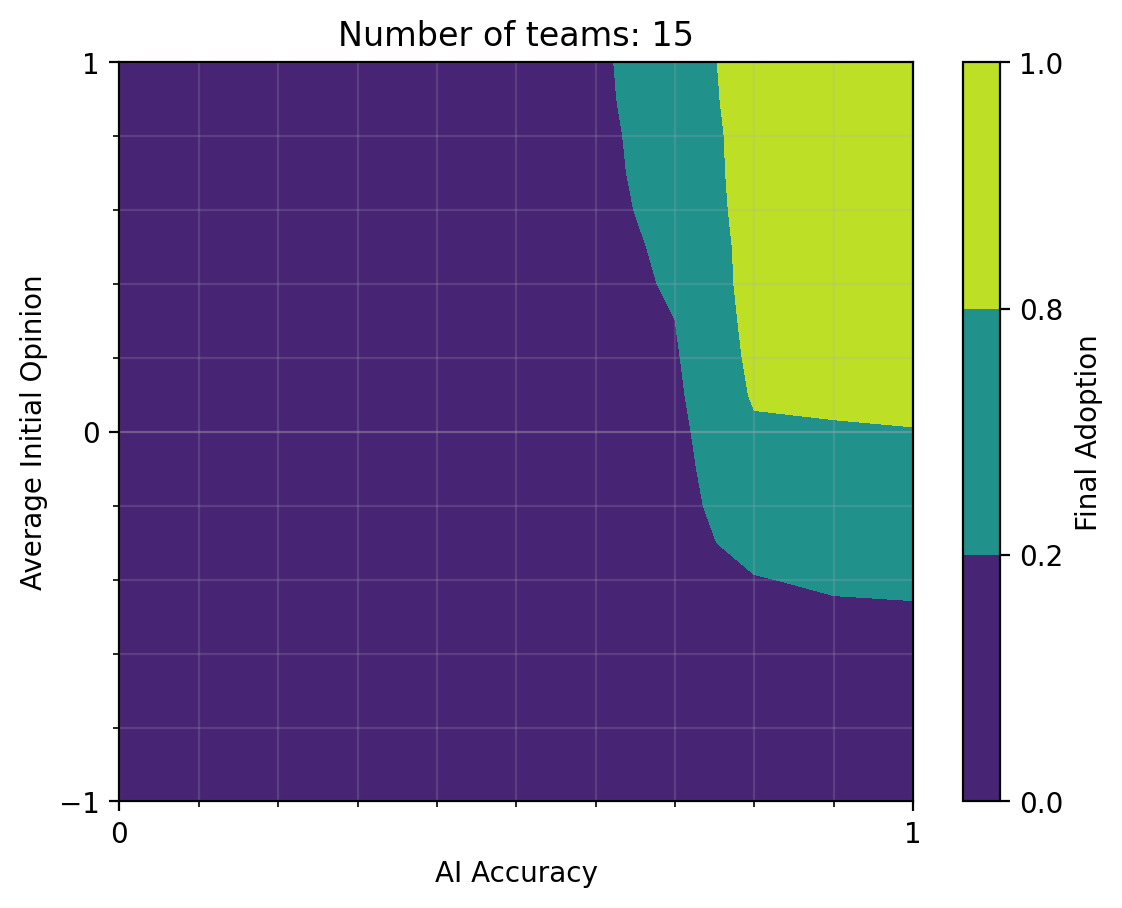
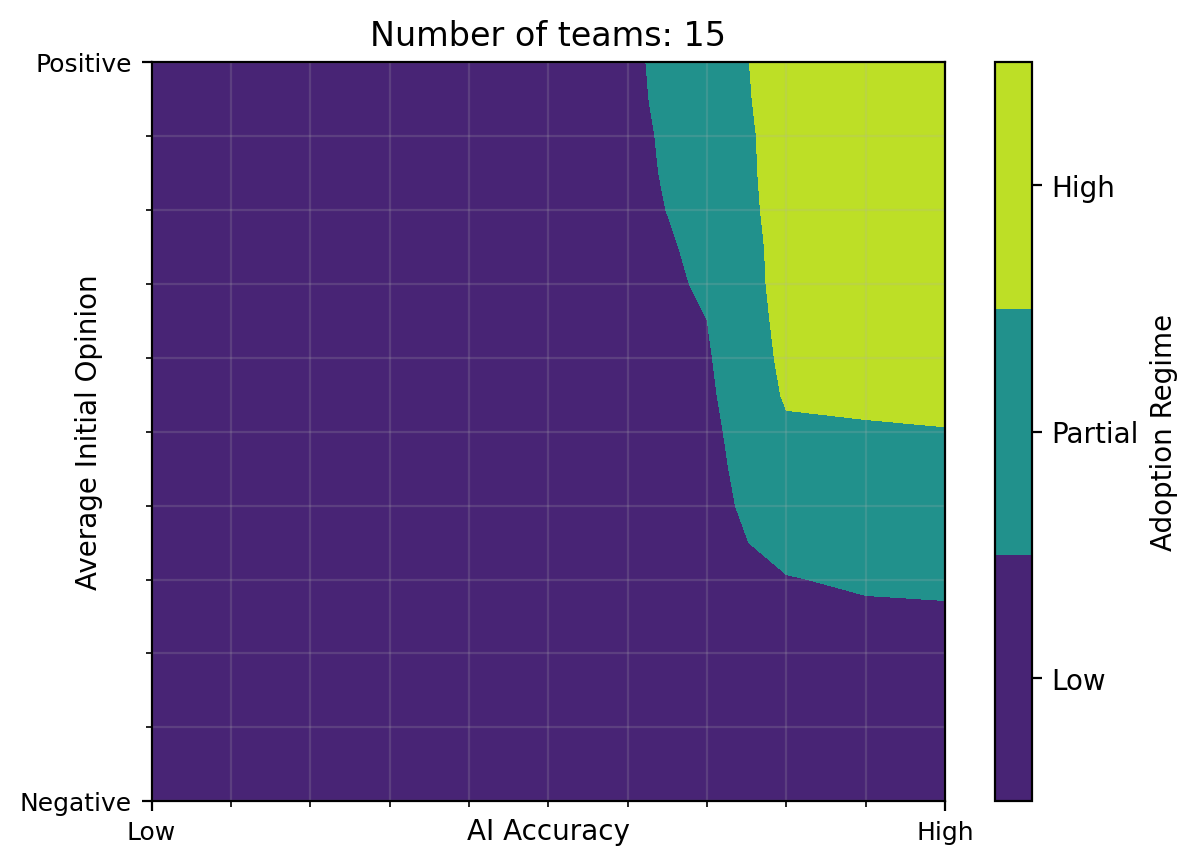
Semantic enhancement.

diff --git a/tradeoff.py b/tradeoff.py
@@ -166,16 +166,22 @@ def plot_tradeoff_iso_adoption(
         color_levels = np.array([0.0, 0.2, 0.8, 1.0])
         cf = plt.contourf(X, Y, Z, levels=color_levels, vmin=0.0, vmax=1.0)
 
-        plt.xlabel("AI Accuracy")
-        plt.ylabel("Average Initial Opinion")
+        plt.xlabel("AI Accuracy", labelpad=-10)
+        plt.ylabel("Average Initial Opinion", labelpad=-30)
         #plt.title(f"Tradeoff: AI Accuracy vs Average Initial Opinion (teams_num={tn})")
         plt.title(f"Number of teams: {tn}")
         
         ax = plt.gca()
 
-        # ---- major ticks (labels only) ----
+        # ---- major ticks (semantic labels) ----
         ax.set_xticks([0.0, 1.0])
-        ax.set_yticks([-1.0, 0.0, 1.0])
+        ax.set_xticklabels(["Low", "High"])
+
+        ax.set_yticks([-1.0, 1.0])
+        ax.set_yticklabels(["Negative", "Positive"])
+
+        ax.tick_params(axis='x', labelsize=9)
+        ax.tick_params(axis='y', labelsize=9)
 
         # ---- minor tick spacing (grid resolution control) ----
         ax.xaxis.set_minor_locator(MultipleLocator(0.1))   # every 0.1 on x
@@ -193,7 +199,21 @@ def plot_tradeoff_iso_adoption(
         #plt.ylim(-1.0, 1.0)
 
         cbar = plt.colorbar(cf)
-        cbar.set_label("Final Adoption")
+        # ---- midpoints of each regime ----
+        region_midpoints = [
+            (0.0 + 0.2) / 2,   # 0.1
+            (0.2 + 0.8) / 2,   # 0.5
+            (0.8 + 1.0) / 2    # 0.9
+        ]
+
+        cbar.set_ticks(region_midpoints)
+        cbar.set_ticklabels([
+            "Low",
+            "Partial",
+            "High"
+        ])
+
+        cbar.set_label("Adoption Regime")
 
         # decide output filename for this tn
         out = None
